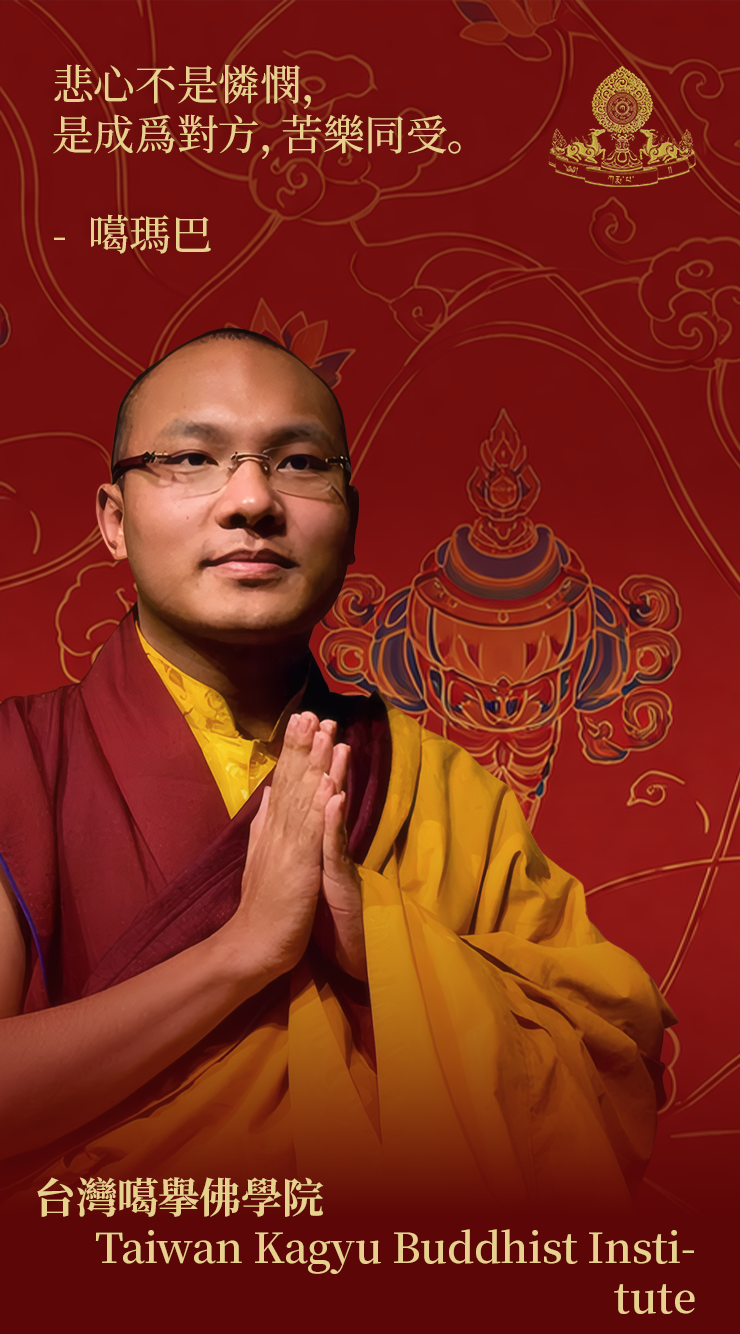
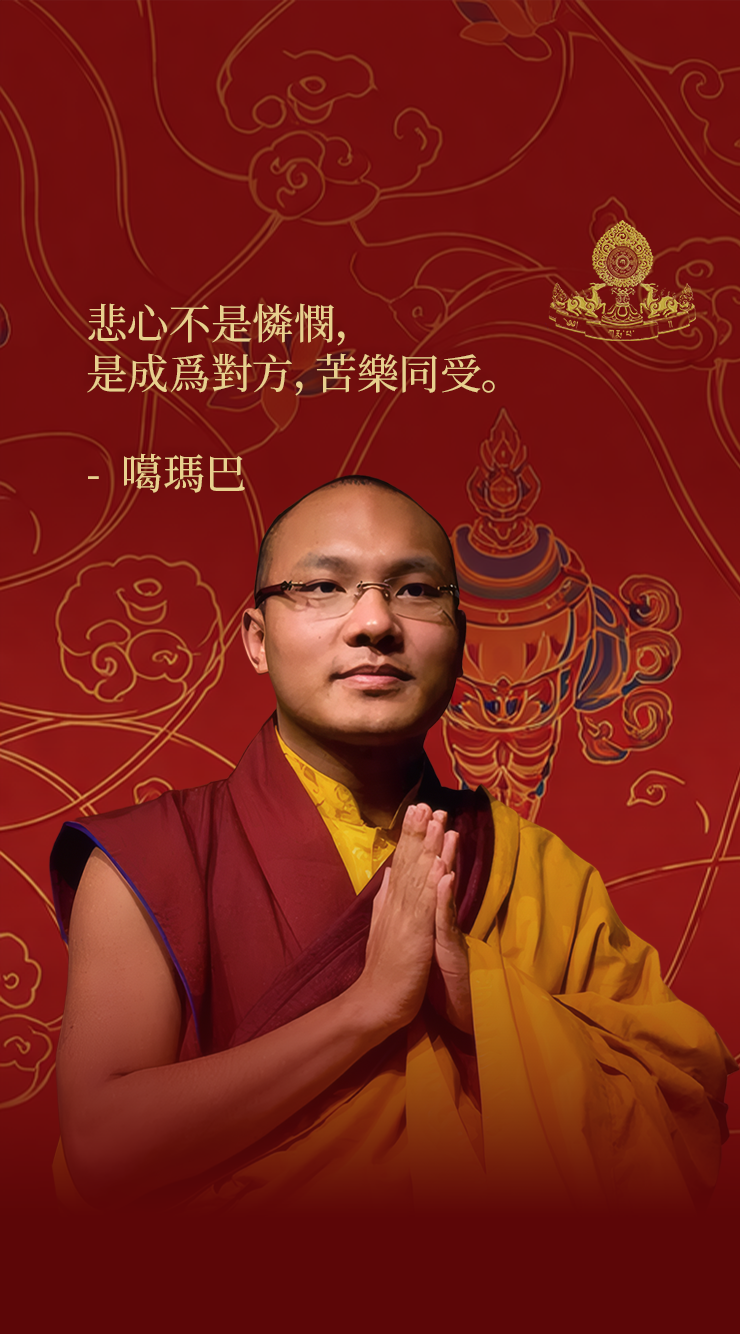
Refresh hero imagery and wide layouts

diff --git a/components/Hero.tsx b/components/Hero.tsx
@@ -126,9 +126,20 @@ type HeroProps = {
 
 export function Hero({ eyebrow, title, description, ctas, slides }: HeroProps) {
   const [activeSlide, setActiveSlide] = useState(0);
+  const [useMobileSlides, setUseMobileSlides] = useState(false);
   const [overlayColors, setOverlayColors] = useState<string[]>(() =>
     slides.map(() => FALLBACK_OVERLAY_COLOR),
   );
+
+  useEffect(() => {
+    const mediaQuery = window.matchMedia("(max-width: 640px)");
+    const updateSlideMode = () => setUseMobileSlides(mediaQuery.matches);
+
+    updateSlideMode();
+    mediaQuery.addEventListener("change", updateSlideMode);
+
+    return () => mediaQuery.removeEventListener("change", updateSlideMode);
+  }, []);
 
   useEffect(() => {
     if (slides.length <= 1) {
@@ -170,7 +181,11 @@ export function Hero({ eyebrow, title, description, ctas, slides }: HeroProps) {
     };
   }, [slides]);
 
-  const currentImage = slides[activeSlide]?.image ?? "";
+  const currentSlide = slides[activeSlide];
+  const currentImage =
+    (useMobileSlides ? currentSlide?.mobileImage : currentSlide?.image) ??
+    currentSlide?.image ??
+    "";
   const hasCopy = Boolean(eyebrow || title || description);
   const heroStyle = {
     ["--hero-cta-image" as string]: `url("${currentImage}")`,

diff --git a/components/Hero.module.css b/components/Hero.module.css
@@ -142,6 +142,7 @@
   background: #f7f7f7;
   border-color: #f7f7f7;
   border-radius: 999px;
+  min-width: 7.5rem;
   min-height: 2.5rem;
   padding-inline: 1.35rem;
   transition:
@@ -156,11 +157,10 @@
   background-position: center;
   background-size: cover;
   color: transparent;
-  transition:
-    color 220ms ease,
-    background-image 220ms ease;
+  white-space: nowrap;
   -webkit-background-clip: text;
   background-clip: text;
+  -webkit-text-fill-color: transparent;
 }
 
 .secondaryButton {
@@ -177,18 +177,23 @@
   .heroButton:hover .heroButtonText {
     background-image: none;
     color: #f7f7f7;
+    -webkit-text-fill-color: #f7f7f7;
   }
 }
 
 @media (max-width: 640px) {
   .hero {
     aspect-ratio: auto;
-    min-height: 76vh;
+    min-height: 100dvh;
+  }
+
+  .slideImage {
+    object-fit: cover;
   }
 
   .content {
     height: auto;
-    min-height: 76vh;
+    min-height: 100dvh;
     padding-bottom: 2rem;
   }
 }

diff --git a/data/homepage.ts b/data/homepage.ts
@@ -259,18 +259,18 @@ export const hero = {
   ] satisfies HeroCta[],
   slides: [
     {
-      image: "/hero/pc1.png?v=20260412-3",
-      mobileImage: "/hero/mb1.png",
+      image: "/hero/pc1.png?v=20260821-1",
+      mobileImage: "/hero/mb1.png?v=20260821-1",
       alt: "Homepage hero featuring a Karmapa teaching and the institute wordmark.",
     },
     {
-      image: "/hero/pc2.png?v=20260412-3",
-      mobileImage: "/hero/mb2.png",
+      image: "/hero/pc2.png?v=20260821-1",
+      mobileImage: "/hero/mb2.png?v=20260821-1",
       alt: "Homepage hero featuring a Karmapa teaching and the institute wordmark.",
     },
     {
-      image: "/hero/pc3.png?v=20260412-3",
-      mobileImage: "/hero/mb3.png",
+      image: "/hero/pc3.png?v=20260821-1",
+      mobileImage: "/hero/mb3.png?v=20260821-1",
       alt: "Homepage hero featuring a Karmapa teaching and the institute wordmark.",
     },
   ] satisfies HeroSlide[],

diff --git a/app/globals.css b/app/globals.css
@@ -63,6 +63,8 @@
   --color-royal-blue: 25, 86, 170;
   --color-soft-gold: 246, 234, 194;
   --page-footer-gap: clamp(6rem, 10vw, 9rem);
+  --wide-content-width: 92vw;
+  --wide-content-max: 112rem;
   --font-serif-tc: var(--font-source-han-serif);
   --font-serif-cn: var(--font-source-han-serif);
   --caption-color: rgba(74, 14, 23, 0.78);
@@ -152,6 +154,18 @@ button {
     transform 180ms ease,
     background-color 180ms ease,
     border-color 180ms ease;
+}
+
+@media (min-width: 1600px) {
+  .container {
+    max-width: var(--wide-content-max);
+    width: var(--wide-content-width);
+  }
+
+  .button {
+    min-width: 7.5rem;
+    white-space: nowrap;
+  }
 }
 
 @media (hover: hover) and (pointer: fine) {

diff --git a/app/support-volunteer/charity-shop/page.module.css b/app/support-volunteer/charity-shop/page.module.css
@@ -1364,8 +1364,17 @@
 
 @media (min-width: 1600px) {
   .categoryGrid,
-  .productGrid {
-    max-width: 112rem;
-    width: 92%;
+  .productGrid,
+  .opener,
+  .categorySwitch,
+  .pageFooterNavigation {
+    max-width: var(--wide-content-max);
+    width: var(--wide-content-width);
+  }
+
+  .switchLink,
+  .pageFooterNavigationLink {
+    min-width: 7.5rem;
+    white-space: nowrap;
   }
 }

diff --git a/app/activities/latest/page.module.css b/app/activities/latest/page.module.css
@@ -118,6 +118,20 @@
   outline: none;
 }
 
+@media (min-width: 1600px) {
+  .emptyState,
+  .archiveNav {
+    max-width: var(--wide-content-max);
+    width: var(--wide-content-width);
+  }
+
+  .filterButton,
+  .archiveNavLink {
+    min-width: 7.5rem;
+    white-space: nowrap;
+  }
+}
+
 .date {
   display: block;
   font-family: var(--font-serif-tc);

diff --git a/app/support-volunteer/merit-ocean/page.module.css b/app/support-volunteer/merit-ocean/page.module.css
@@ -16,6 +16,13 @@
   max-width: 920px;
 }
 
+@media (min-width: 1600px) {
+  .inner {
+    max-width: var(--wide-content-max);
+    width: var(--wide-content-width);
+  }
+}
+
 .header {
   margin: 0 auto clamp(10rem, 18vw, 15rem);
   max-width: 760px;

diff --git a/app/support-volunteer/merit-ocean/MeritOceanSections.module.css b/app/support-volunteer/merit-ocean/MeritOceanSections.module.css
@@ -488,6 +488,13 @@
   }
 }
 
+@media (min-width: 1600px) {
+  .sections {
+    max-width: var(--wide-content-max);
+    width: var(--wide-content-width);
+  }
+}
+
 @media (prefers-reduced-motion: reduce) {
   .summary,
   .panel,

diff --git a/app/page.module.css b/app/page.module.css
@@ -290,8 +290,8 @@
 
 @media (min-width: 1600px) {
   .homeContainer {
-    max-width: 112rem;
-    width: 92%;
+    max-width: var(--wide-content-max);
+    width: var(--wide-content-width);
   }
 
   .mediaGatewayShell,

diff --git a/app/kagyu-lineage/contemporary-masters/page.module.css b/app/kagyu-lineage/contemporary-masters/page.module.css
@@ -112,7 +112,7 @@
 
 @media (min-width: 1600px) {
   .articleInner {
-    max-width: 112rem;
-    width: 92%;
+    max-width: var(--wide-content-max);
+    width: var(--wide-content-width);
   }
 }

diff --git a/app/karmapa/lineage/page.module.css b/app/karmapa/lineage/page.module.css
@@ -113,7 +113,7 @@
   .articleInner {
     --lineage-card-min: 0px;
 
-    max-width: 112rem;
-    width: 92%;
+    max-width: var(--wide-content-max);
+    width: var(--wide-content-width);
   }
 }

diff --git a/app/study-practice/dharma-wisdom/karmapa-teachings/page.module.css b/app/study-practice/dharma-wisdom/karmapa-teachings/page.module.css
@@ -132,7 +132,7 @@
 
 @media (min-width: 1600px) {
   .articleInner {
-    max-width: 112rem;
-    width: 92%;
+    max-width: var(--wide-content-max);
+    width: var(--wide-content-width);
   }
 }
